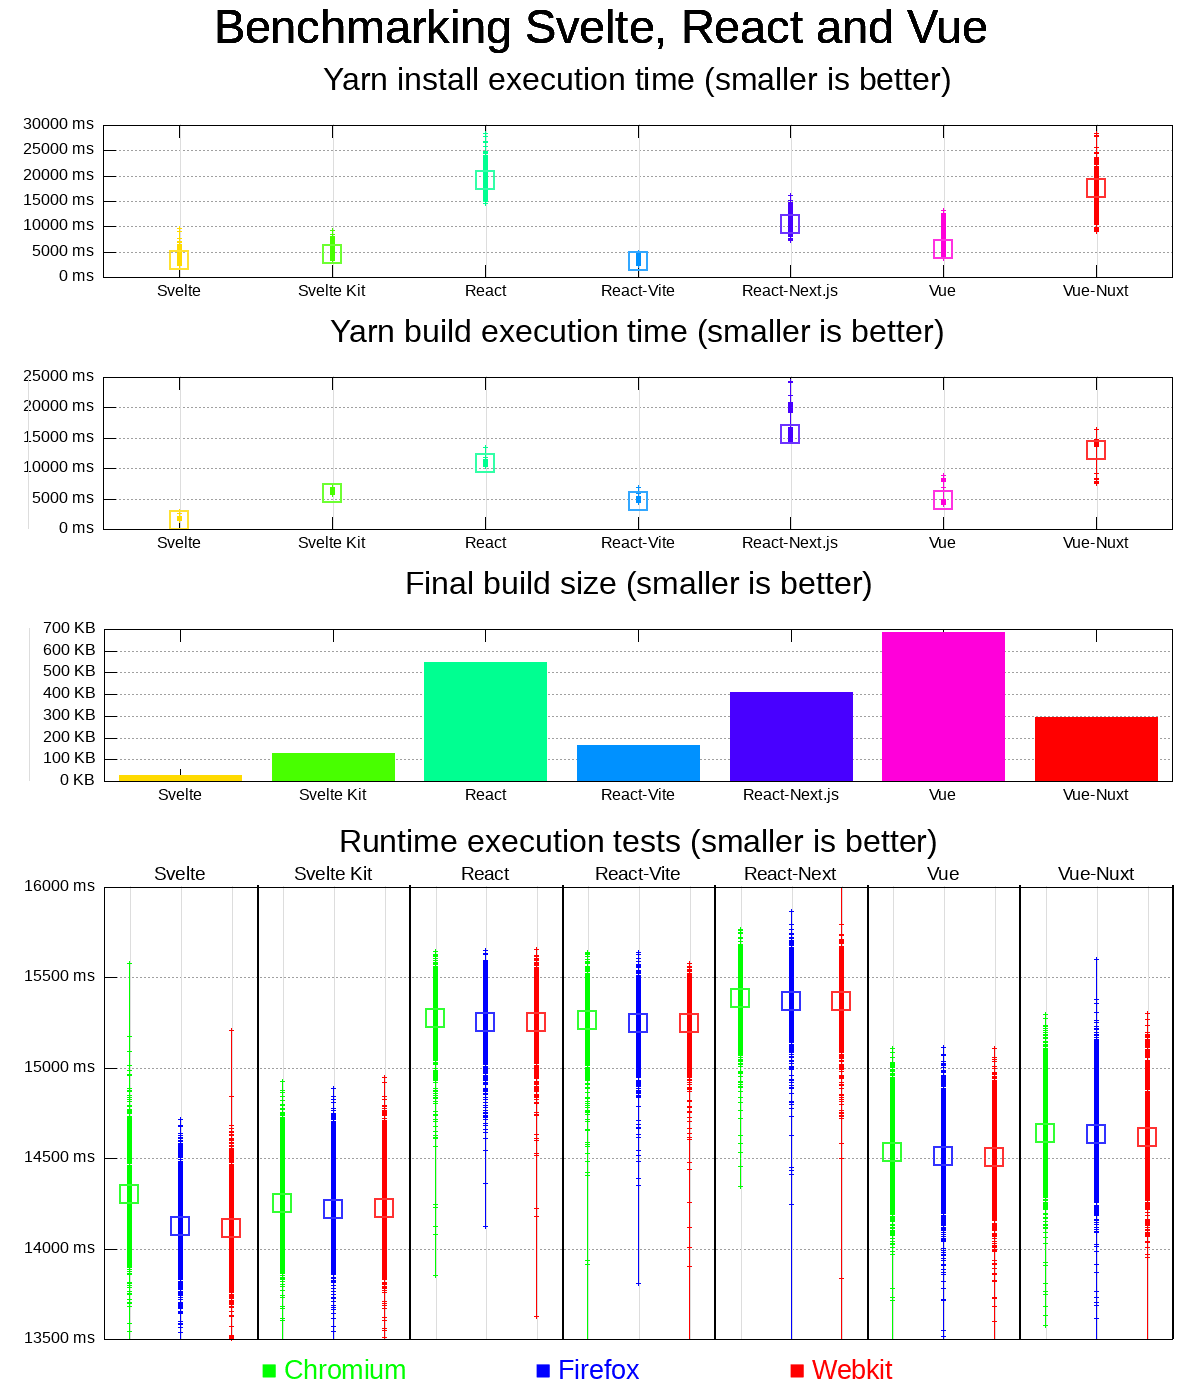
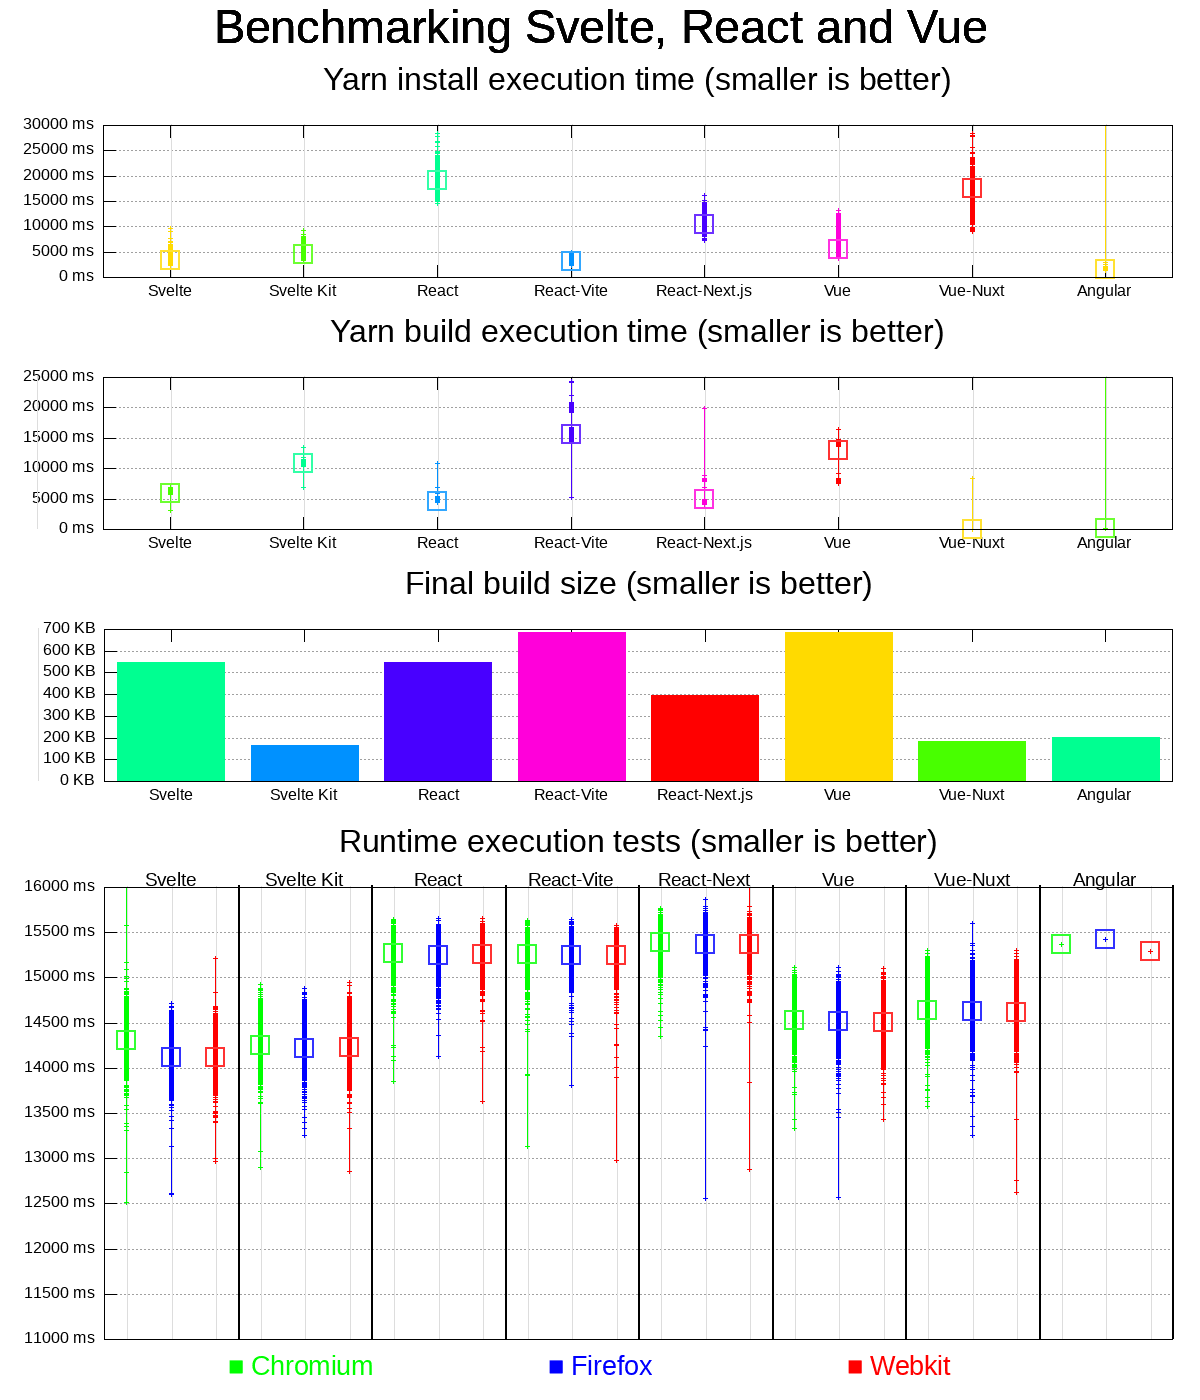
Add first dedi result after adding angular

diff --git a/README.md b/README.md
@@ -30,8 +30,8 @@ Pictured results:
 | Server                       | A                      | B                     |
 |------------------------------|------------------------|-----------------------|
 | Results                      | ![](./output/dedi.png) | ![](./output/vps.png) |
-| Number of build benchmarks   | 2562 | 975 |
-| Number of runtime benchmarks | 1164 | 973 |
+| Number of build benchmarks   | 2564 | 975 |
+| Number of runtime benchmarks | 1165 | 973 |
 
 ## How to reproduce
 
